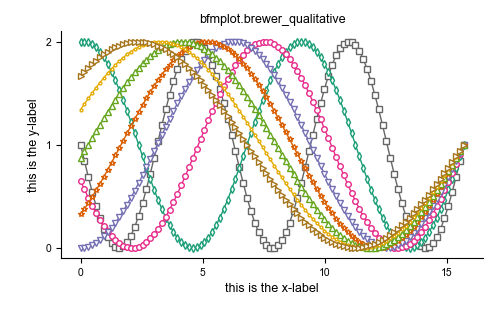
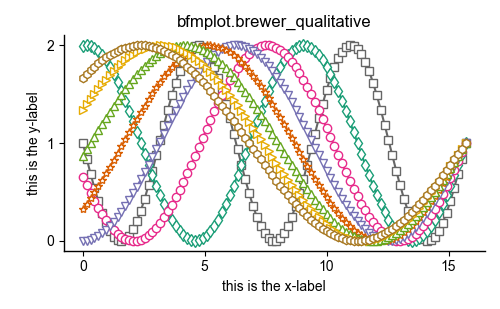
don't reregister cividis

Changed region(s): [[0.03, 0.0291, 0.96, 0.9612]]

diff --git a/bfmplot/sequences.py b/bfmplot/sequences.py
@@ -3,21 +3,21 @@ from bfmplot import pl
 
 from cycler import cycler
 
-mpl_default_colors = [ '#1f77b4', 
-               '#ff7f0e', 
-               '#2ca02c', 
-               '#d62728', 
-               '#9467bd', 
-               '#8c564b', 
-               '#e377c2', 
-               '#7f7f7f', 
-               '#bcbd22', 
+mpl_default_colors = [ '#1f77b4',
+               '#ff7f0e',
+               '#2ca02c',
+               '#d62728',
+               '#9467bd',
+               '#8c564b',
+               '#e377c2',
+               '#7f7f7f',
+               '#bcbd22',
                '#17becf',
               ]
 
 new_colors = [ '#187960', '#bd9550', '#118390', '#d34d42', '#369c8d' ]
 
-brewer_qualitative = [  
+brewer_qualitative = [
             '#666666',
             '#1b9e77',
             '#e7298a',
@@ -28,20 +28,54 @@ brewer_qualitative = [
             '#a6761d',
           ]
 
-cccs_colors=[   
-                "#4a4e4d",  
-                "#0e3ca7",  
+cccs_colors=[
+                "#4a4e4d",
+                "#0e3ca7",
                 "#fe8a71",
-                "#3da4ab", 
+                "#3da4ab",
                 #"#f6cd61", 
                 '#e6ab02',
             ]
 
-colors = brewer_qualitative
 
 epipack = [ '#'+s for s in ['365663','ee6f51','2a9d8f','83e377','e9c46a','646464','ff9de4','52b7dc','b75b9e','ff9de4','47829a','ff9f92','45dbc8','a4ffbb','ffee9d','a1a1a1','b0dff0','ffcaf0',]]
 
+wong = [
+            '#333333', # black
+            '#D55E00', # red (orange-ish)
+            '#E69F00', # orange
+            '#56B4E9', # light blue
+            '#0072B2', # blue
+            '#F0E442', # yellow
+            '#CC79A7', # red (wine-ish)
+            '#009E73', # green
+        ]
+
+wong_orig = [
+            '#333333', # black (original is #000000, but it's too harsh on my eye)
+            '#E69F00', # orange
+            '#56B4E9', # light blue
+            '#009E73', # green
+            '#F0E442', # yellow
+            '#0072B2', # blue
+            '#D55E00', # red (orange-ish)
+            '#CC79A7', # red (wine-ish)
+        ]
+
+wong_order = [
+            '#333333', # black (original is #000000, but it's too harsh on my eye)
+            '#E69F00', # orange
+            '#009E73', # green
+            '#D55E00', # red (orange-ish)
+            '#56B4E9', # light blue
+            '#F0E442', # yellow
+            '#0072B2', # blue
+            '#CC79A7', # red (wine-ish)
+        ]
+
+
 colors = epipack
+
 
 class simple_cycler(list):
     """Simplest implementation of a list with periodic boundary conditions"""
@@ -51,10 +85,26 @@ class simple_cycler(list):
     def __getitem__(self,i):
         return self.items[i%len(self.items)]
 
-    def __getitem__(self,i):
-        return self.items[i%len(self.items)]
-
 
 #markers = simple_cycler(['s','d','o','v','*','^','.','>','h','p','P','<','8','H','X'])
 markers = simple_cycler(['s','d','o','v','*','^','>','h','p','P','<','8','H','X'])
+
+
+if __name__ == "__main__":
+
+    import numpy as np
+
+    seq = wong_order
+
+    ncol = int(np.ceil(np.sqrt(len(seq))))
+    fig, ax = pl.subplots(ncol,ncol,figsize=(8,8))
+    ax = ax.flatten()
+
+    x = np.linspace(0,2*np.pi,1000)
+
+    for i in range(len(seq)):
+        for j in range(i+1):
+            ax[i].plot(x,np.sin(x*np.sqrt(j+1)),c=seq[j],lw=3)
+
+    pl.show()
 

diff --git a/sandbox/color_scan.py b/sandbox/color_scan.py
@@ -30,6 +30,7 @@ for colors,name in zip([
                 bp.brewer_qualitative,
                 bp.cccs_colors,                
                 bp.get_cividis_colors(8),
+                bp.wong,
                ],
                [
                 'bfmplot.mpl_default_colors',
@@ -37,6 +38,7 @@ for colors,name in zip([
                 'bfmplot.brewer_qualitative',
                 'bfmplot.cccs_colors',
                 'bfmplot.get_cividis_colors(8)',
+                'bfmplot.wong',
                ],
                ):
 

diff --git a/setup.py b/setup.py
@@ -1,7 +1,7 @@
 from setuptools import setup
 
 setup(name='bfmplot',
-      version='0.0.8dev',
+      version='0.0.9dev',
       description="Snippet collections for plots how I make them.",
       url='https://www.github.com/benmaier/bfmplot',
       author='Benjamin F. Maier',

diff --git a/bfmplot/colormaps.py b/bfmplot/colormaps.py
@@ -40,7 +40,7 @@ def convert_color_array_to_cdict(arr):
     return cdict
 
 maier = np.array([
-    [79.,168.,140.], 
+    [79.,168.,140.],
     [121.,121.,121.],
     [255.,52.,160.],
 ]) / 255.

diff --git a/bfmplot/__init__.py b/bfmplot/__init__.py
@@ -1,7 +1,7 @@
 import matplotlib as mpl
 import matplotlib.pyplot as pl
 
-from .cividis import *
+#from .cividis import *
 from .sequences import *
 from .tools import *
 

diff --git a/README.rst b/README.rst
@@ -2,7 +2,8 @@ bfmplot
 =======
 
 A collection of snippets for plots to make my life easier. The name is a
-nod to the great `Burkhard Bunk`_.
+nod to the great `Burkhard
+Bunk <http://people.physik.hu-berlin.de/~bunk/bbplot/>`__.
 
 Install
 -------
@@ -71,7 +72,8 @@ First Example
 
    pl.show()
 
-|one|
+.. image:: https://github.com/benmaier/bfmplot/raw/master/sandbox/one.png
+   :alt: one
 
 Colors
 ~~~~~~
@@ -84,6 +86,7 @@ Colors
                    bp.brewer_qualitative,
                    bp.cccs_colors,                
                    bp.get_cividis_colors(8),
+                   bp.wong,
                   ],
                   [
                    'bfmplot.mpl_default_colors',
@@ -91,19 +94,18 @@ Colors
                    'bfmplot.brewer_qualitative',
                    'bfmplot.cccs_colors',
                    'bfmplot.get_cividis_colors(8)',
+                   'bfmplot.wong',
                   ],
                   ):
 
        bp.set_color_cycle(colors)
        sin_test(n=8,text_position='start')
 
-|image1| |image2| |image3| |image4| |image5|
+|image1| |image2| |image3| |image4| |image5| |image6|
 
-.. _Burkhard Bunk: http://people.physik.hu-berlin.de/~bunk/bbplot/
-
-.. |one| image:: https://github.com/benmaier/bfmplot/raw/master/sandbox/one.png
 .. |image1| image:: https://github.com/benmaier/bfmplot/raw/master/sandbox/bfmplot.mpl_default_colors.png
 .. |image2| image:: https://github.com/benmaier/bfmplot/raw/master/sandbox/bfmplot.new_colors.png
 .. |image3| image:: https://github.com/benmaier/bfmplot/raw/master/sandbox/bfmplot.brewer_qualitative.png
 .. |image4| image:: https://github.com/benmaier/bfmplot/raw/master/sandbox/bfmplot.cccs_colors.png
 .. |image5| image:: https://github.com/benmaier/bfmplot/raw/master/sandbox/bfmplot.get_cividis_colors_8_.png
+.. |image6| image:: https://github.com/benmaier/bfmplot/raw/master/sandbox/bfmplot.wong.png

diff --git a/README.md b/README.md
@@ -70,6 +70,7 @@ for colors,name in zip([
                 bp.brewer_qualitative,
                 bp.cccs_colors,                
                 bp.get_cividis_colors(8),
+                bp.wong,
                ],
                [
                 'bfmplot.mpl_default_colors',
@@ -77,6 +78,7 @@ for colors,name in zip([
                 'bfmplot.brewer_qualitative',
                 'bfmplot.cccs_colors',
                 'bfmplot.get_cividis_colors(8)',
+                'bfmplot.wong',
                ],
                ):
 
@@ -89,5 +91,6 @@ for colors,name in zip([
 ![](https://github.com/benmaier/bfmplot/raw/master/sandbox/bfmplot.brewer_qualitative.png "")
 ![](https://github.com/benmaier/bfmplot/raw/master/sandbox/bfmplot.cccs_colors.png "")
 ![](https://github.com/benmaier/bfmplot/raw/master/sandbox/bfmplot.get_cividis_colors_8_.png "")
+![](https://github.com/benmaier/bfmplot/raw/master/sandbox/bfmplot.wong.png "")
 
 
